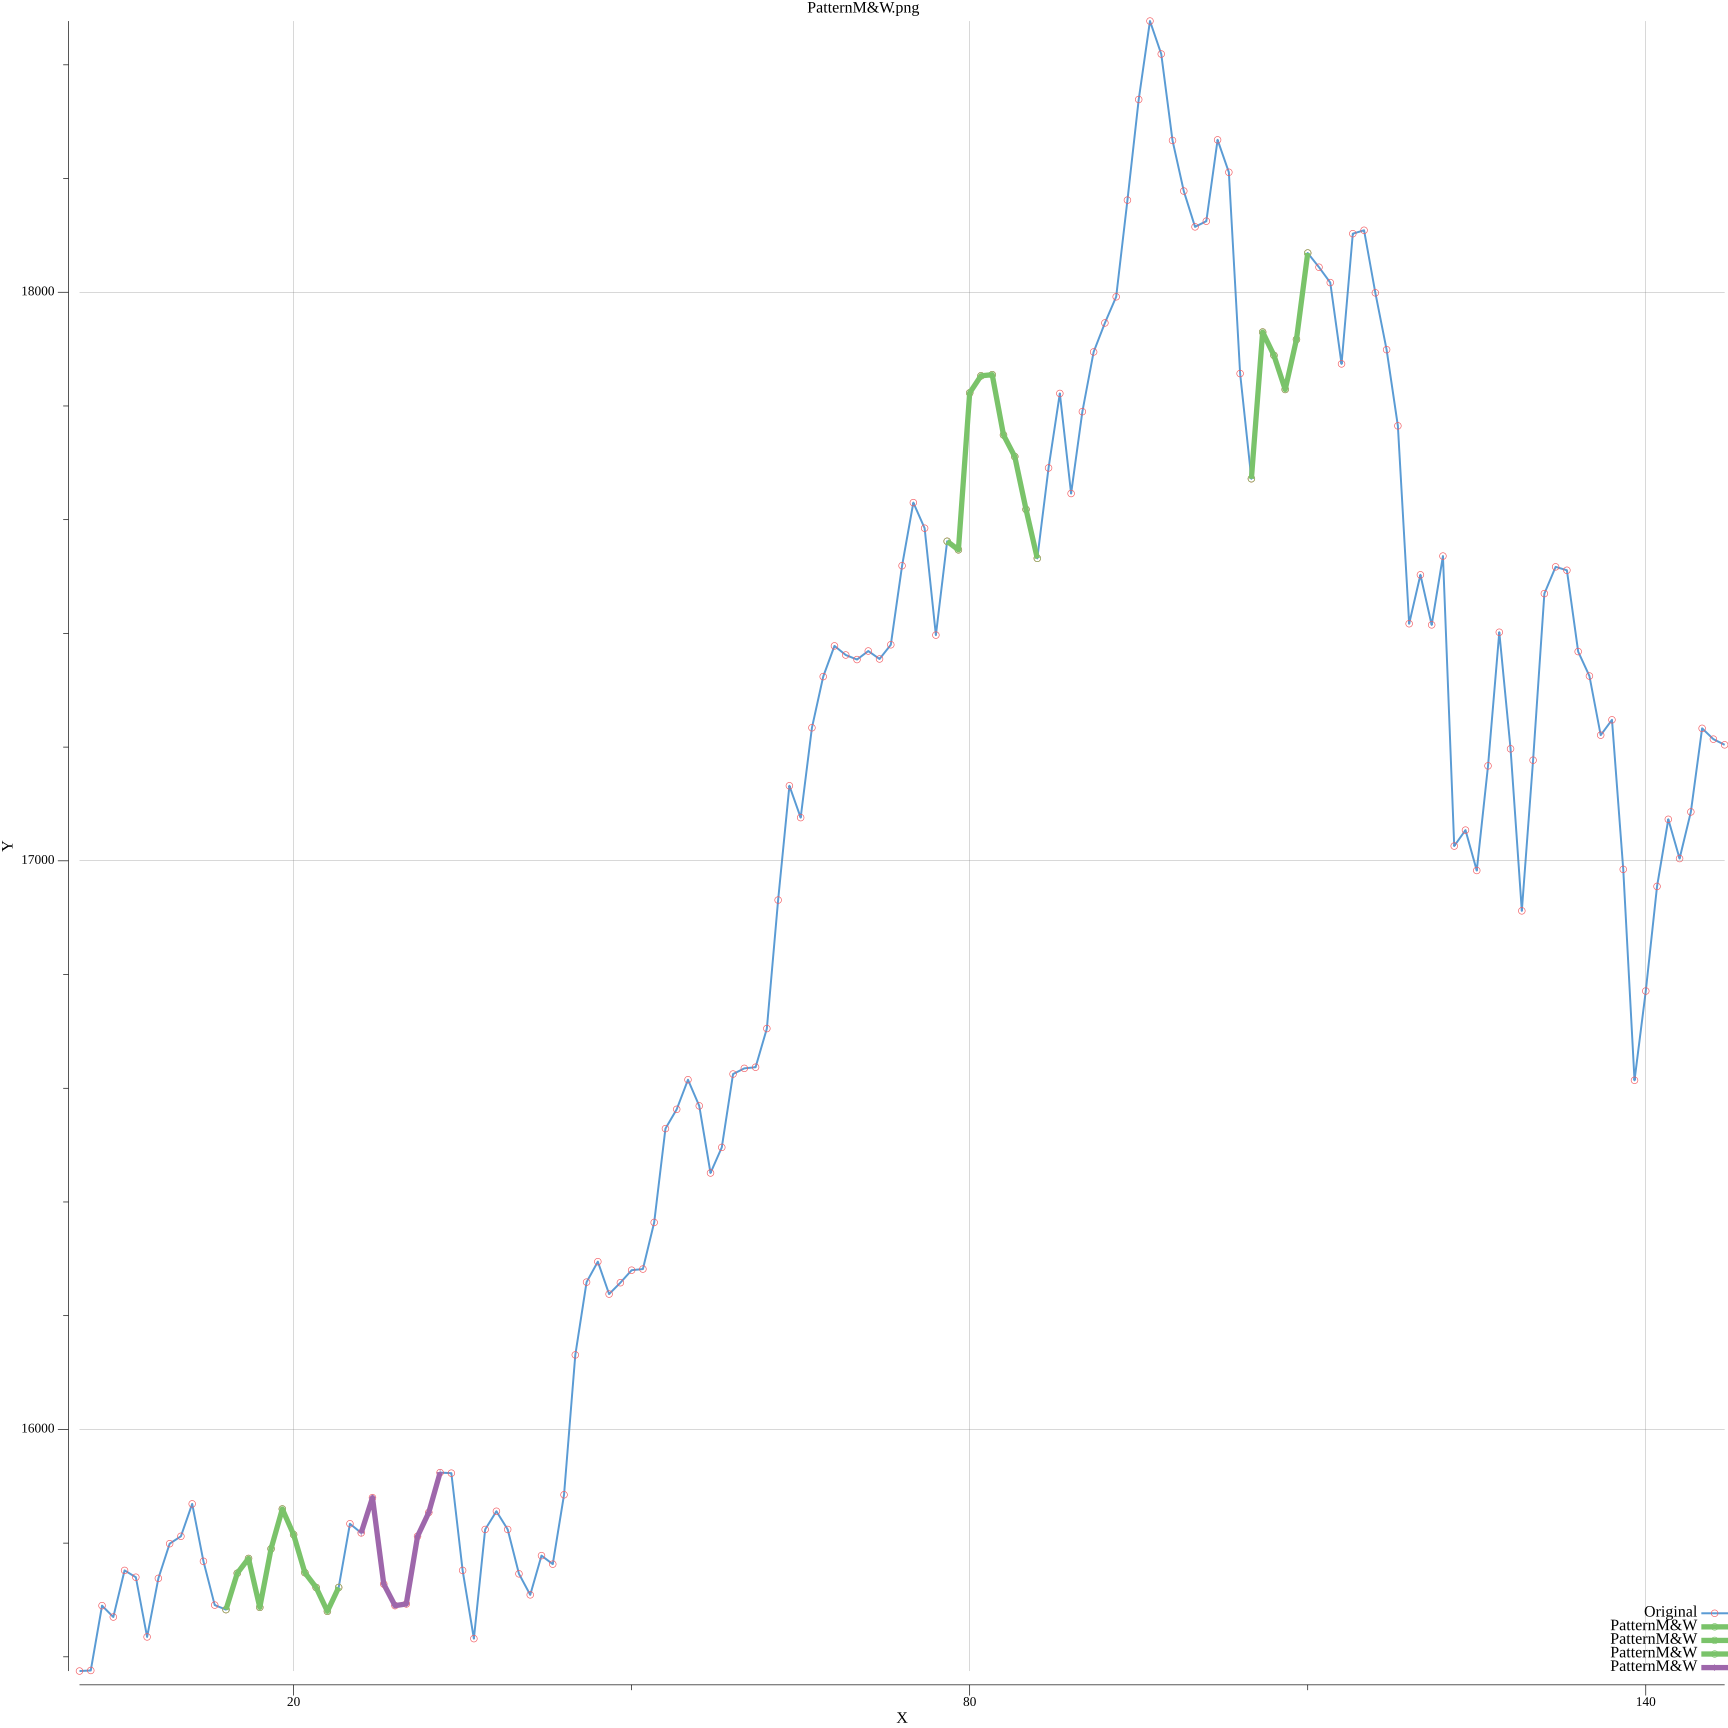
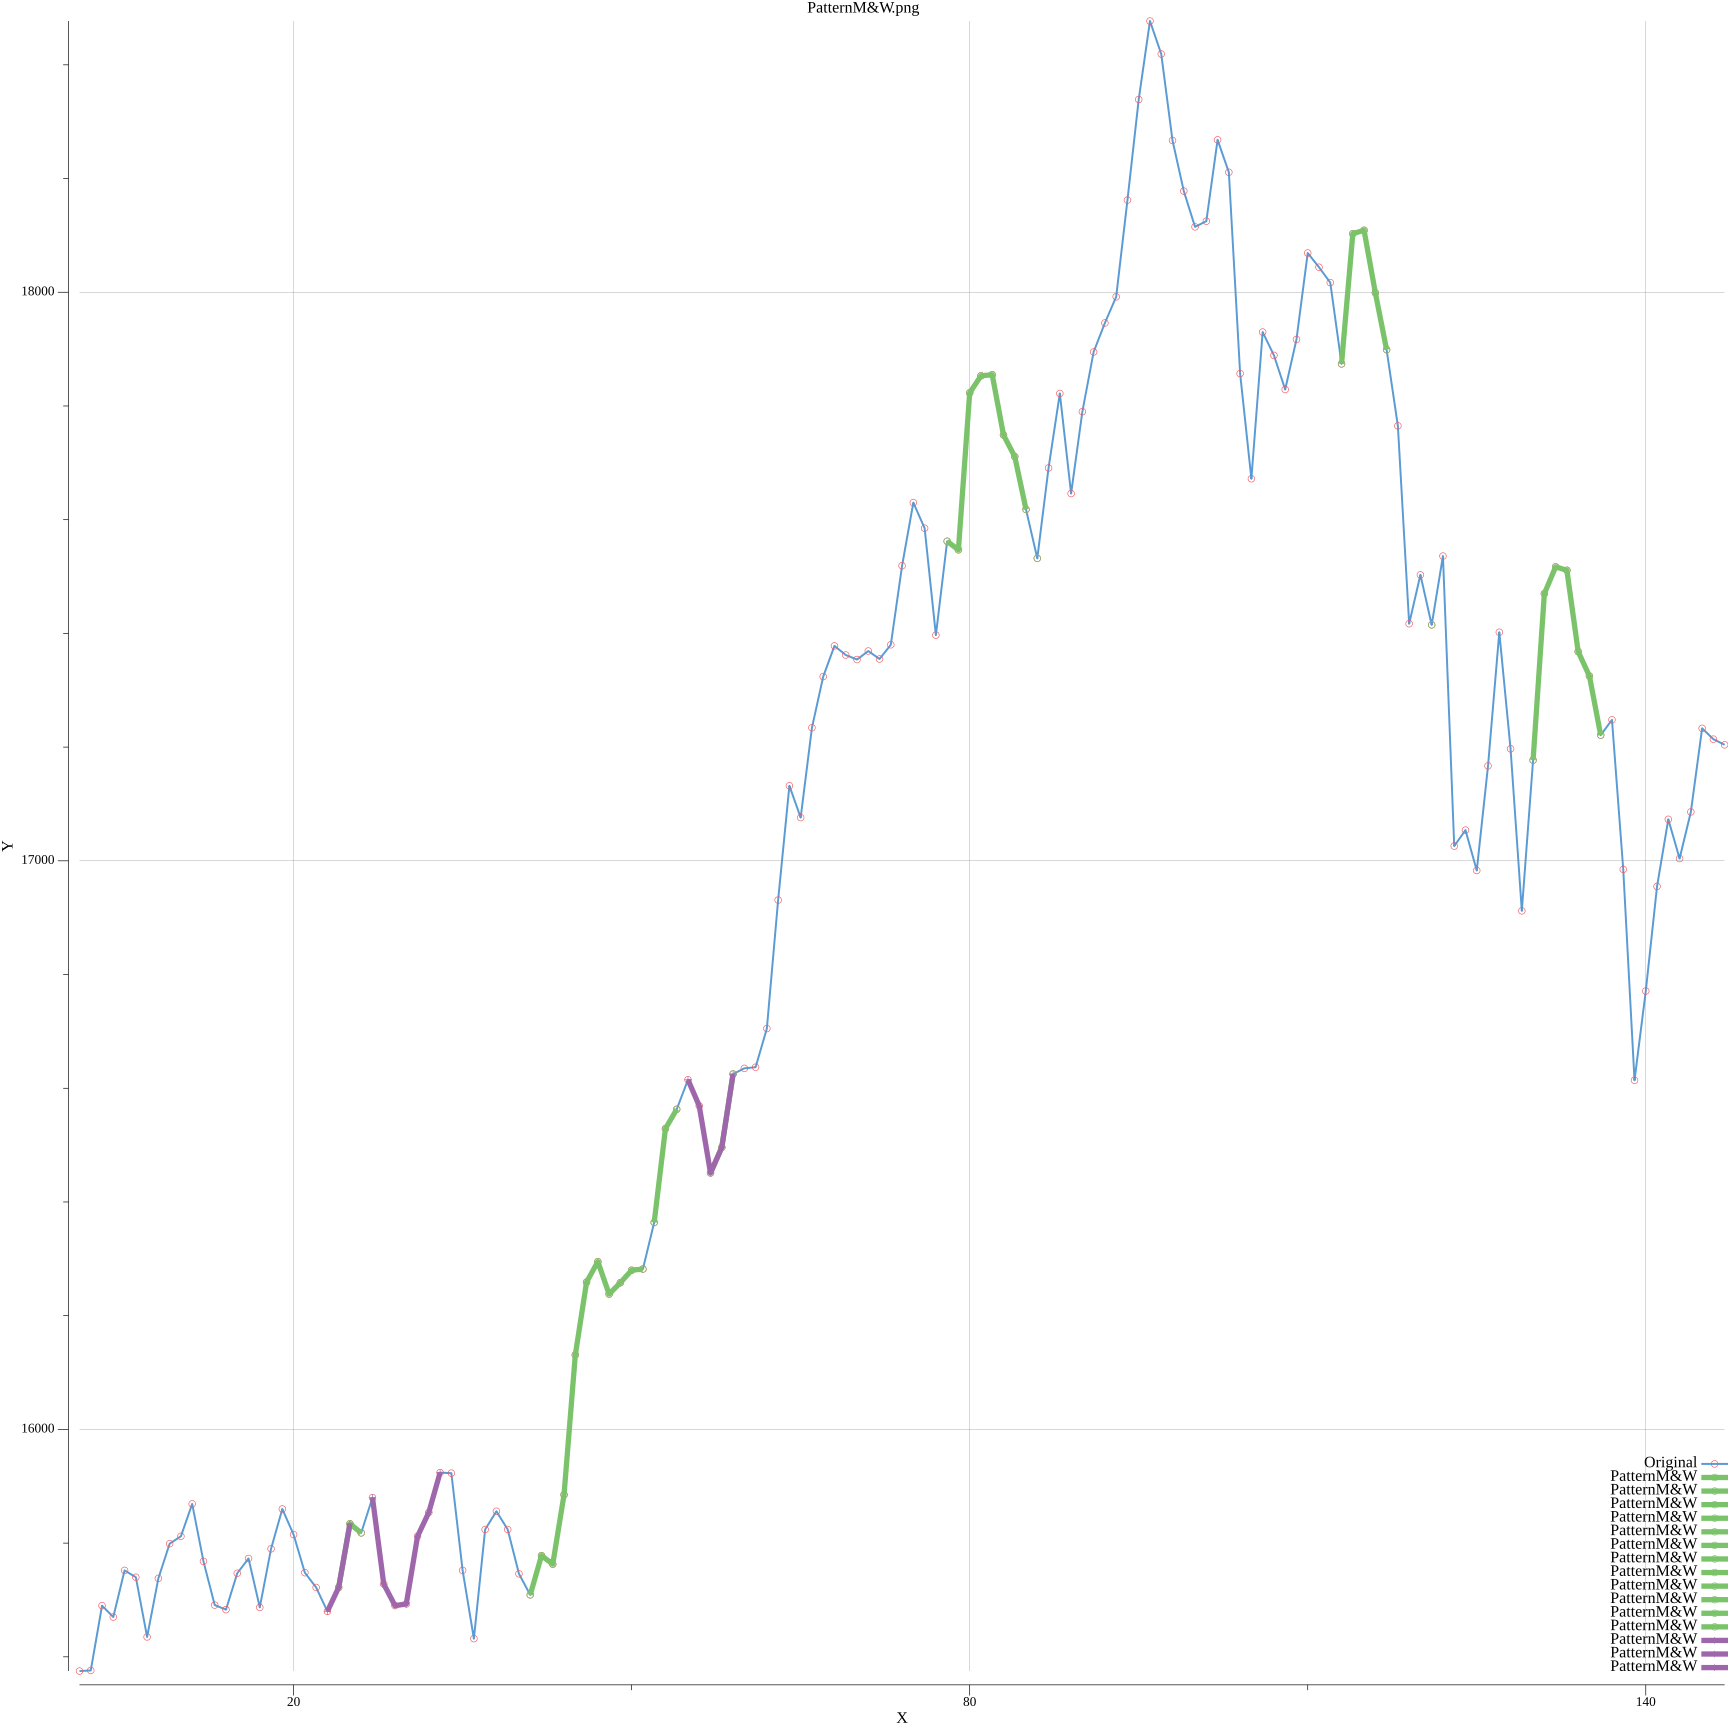
mnbbm

diff --git a/All/Semi&Inverted_merge/merge_main1.go b/All/Semi&Inverted_merge/merge_main1.go
@@ -253,9 +253,19 @@ func (l *Date_struct) PatternSemi() ([]int, []int, int, bool) {
 					a2 = append(a2, x)
 				}
 
-				if Is_Valid12(l.Date_struct[All_trends_index_values[i]].Value2, a1) && Is_Valid12(l.Date_struct[All_trends_index_values[i+2]].Value3, a2) {
+				if Is_Valid12(l.Date_struct[All_trends_index_values[i]].Value2, a1) && Is_Valid12(l.Date_struct[All_trends_index_values[i+2]+2].Value3, a2) {
 					start = append(start, All_trends_index_values[i])
-					end = append(end, All_trends_index_values[i+2]+1)
+					end = append(end, All_trends_index_values[i+2]+3)
+					count++
+					bol = true
+				} else if Is_Valid12(l.Date_struct[All_trends_index_values[i]-2].Value2, a1) && Is_Valid12(l.Date_struct[All_trends_index_values[i+2]].Value3, a2) {
+					start = append(start, All_trends_index_values[i])
+					end = append(end, All_trends_index_values[i+2]-2)
+					count++
+					bol = true
+				} else if Is_Valid12(l.Date_struct[All_trends_index_values[i]].Value2, a1) && Is_Valid12(l.Date_struct[All_trends_index_values[i+2]].Value3, a2) {
+					start = append(start, All_trends_index_values[i]+1)
+					end = append(end, All_trends_index_values[i+2]-2)
 					count++
 					bol = true
 				}
@@ -276,23 +286,23 @@ func peaks(pts []Date) (a []int) {
 			continue
 		} else if pts[i].Value2 == pts[len(pts)-1].Value2 {
 			continue
-		} else if pts[i-1].Value2 < pts[i].Value2 && pts[i+1].Value3 < pts[i].Value2 && pts[i-1] != pts[0] && pts[i+1] != pts[len(pts)-1] {
+		} else if pts[i-1].Value2 < pts[i].Value2 && pts[i+1].Value2 < pts[i].Value2 && pts[i-1] != pts[0] && pts[i+1] != pts[len(pts)-1] {
 
 			var a1 []int
 			var x int
-			for i1 := 0; i1 < 30; i1++ {
+			for i1 := 0; i1 < 80; i1++ {
 				x = pts[i].Value2 + i1
 				a1 = append(a1, x)
 			}
-			for i2 := 0; i2 < 30; i2++ {
+			for i2 := 0; i2 < 80; i2++ {
 				x = pts[i].Value2 - i2
 				a1 = append(a1, x)
 			}
-			if Is_Valid30(pts[i-1].Value2, a1) && pts[i-1].Value2 > pts[i-2].Value2 { //pts[i-1].Value == pts[i].Value || pts[i+1].Value == pts[i].Value
+			if IsValidCategoryu(pts[i-1].Value2, a1) && pts[i-1].Value2 > pts[i-2].Value2 { //pts[i-1].Value == pts[i].Value || pts[i+1].Value == pts[i].Value
 				b = append(b, i)
 				continue
 			}
-			if Is_Valid30(pts[i+1].Value3, a1) && pts[i+1].Value3 > pts[i+2].Value3 { //pts[i-1].Value == pts[i].Value || pts[i+1].Value == pts[i].Value
+			if IsValidCategoryu(pts[i+1].Value2, a1) && pts[i+1].Value2 > pts[i+2].Value2 { //pts[i-1].Value == pts[i].Value || pts[i+1].Value == pts[i].Value
 				b = append(b, i)
 				continue
 
@@ -692,9 +702,34 @@ func (l *Date_struct) PatternInverted() ([]int, []int, int, bool) {
 					a2 = append(a2, x1)
 				}
 
-				if IsValidCategoryu(l.Date_struct[All_trends_index_values[i]].Value2, a1) && IsValidCategoryu(l.Date_struct[All_trends_index_values[i+2]-1].Value3, a2) {
-					start = append(start, All_trends_index_values[i])
+				if IsValidCategoryu(l.Date_struct[All_trends_index_values[i]+1].Value2, a1) && IsValidCategoryu(l.Date_struct[All_trends_index_values[i+2]-1].Value3, a2) {
+					start = append(start, All_trends_index_values[i]+1)
 					end = append(end, All_trends_index_values[i+2])
+					count++
+					bol = true
+				} else if IsValidCategoryu(l.Date_struct[All_trends_index_values[i]-1].Value2, a1) && IsValidCategoryu(l.Date_struct[All_trends_index_values[i+2]+2].Value3, a2) {
+					start = append(start, All_trends_index_values[i]-1)
+					end = append(end, All_trends_index_values[i+2])
+					count++
+					bol = true
+				} else if IsValidCategoryu(l.Date_struct[All_trends_index_values[i]+2].Value2, a1) && IsValidCategoryu(l.Date_struct[All_trends_index_values[i+2]-2].Value3, a2) {
+					start = append(start, All_trends_index_values[i]+2)
+					end = append(end, All_trends_index_values[i+2]-1)
+					count++
+					bol = true
+				} else if IsValidCategoryu(l.Date_struct[All_trends_index_values[i]].Value2, a1) && IsValidCategoryu(l.Date_struct[All_trends_index_values[i+2]].Value3, a2) {
+					start = append(start, All_trends_index_values[i])
+					end = append(end, All_trends_index_values[i+2]+1)
+					count++
+					bol = true
+				} else if IsValidCategoryu(l.Date_struct[All_trends_index_values[i]+3].Value2, a1) && IsValidCategoryu(l.Date_struct[All_trends_index_values[i+2]-3].Value3, a2) {
+					start = append(start, All_trends_index_values[i]+3)
+					end = append(end, All_trends_index_values[i+2]-2)
+					count++
+					bol = true
+				} else if IsValidCategoryu(l.Date_struct[All_trends_index_values[i]-3].Value2, a1) && IsValidCategoryu(l.Date_struct[All_trends_index_values[i+2]+3].Value3, a2) {
+					start = append(start, All_trends_index_values[i]-3)
+					end = append(end, All_trends_index_values[i+2]+4)
 					count++
 					bol = true
 				}
@@ -901,19 +936,19 @@ func troughs1(pts []Date) (a []int) {
 		} else if pts[i-1].Value3 > pts[i].Value3 && pts[i+1].Value3 > pts[i].Value3 && pts[i-1] != pts[0] && pts[i+1] != pts[len(pts)-1] {
 			var a1 []int
 			var x int
-			for i1 := 0; i1 < 30; i1++ {
+			for i1 := 0; i1 < 80; i1++ {
 				x = pts[i].Value3 + i1
 				a1 = append(a1, x)
 			}
-			for i2 := 0; i2 < 30; i2++ {
+			for i2 := 0; i2 < 80; i2++ {
 				x = pts[i].Value3 - i2
 				a1 = append(a1, x)
 			}
-			if Is_Valid30(pts[i-1].Value3, a1) && pts[i-1].Value3 < pts[i-2].Value3 { //pts[i-1].Value == pts[i].Value || pts[i+1].Value == pts[i].Value
+			if IsValidCategoryu(pts[i-1].Value3, a1) && pts[i-1].Value3 < pts[i-2].Value3 { //pts[i-1].Value == pts[i].Value || pts[i+1].Value == pts[i].Value
 				b = append(b, i)
 				continue
 			}
-			if Is_Valid30(pts[i+1].Value3, a1) && pts[i+1].Value3 < pts[i+2].Value3 { //pts[i-1].Value == pts[i].Value || pts[i+1].Value == pts[i].Value
+			if IsValidCategoryu(pts[i+1].Value3, a1) && pts[i+1].Value3 < pts[i+2].Value3 { //pts[i-1].Value == pts[i].Value || pts[i+1].Value == pts[i].Value
 				b = append(b, i)
 				continue
 
